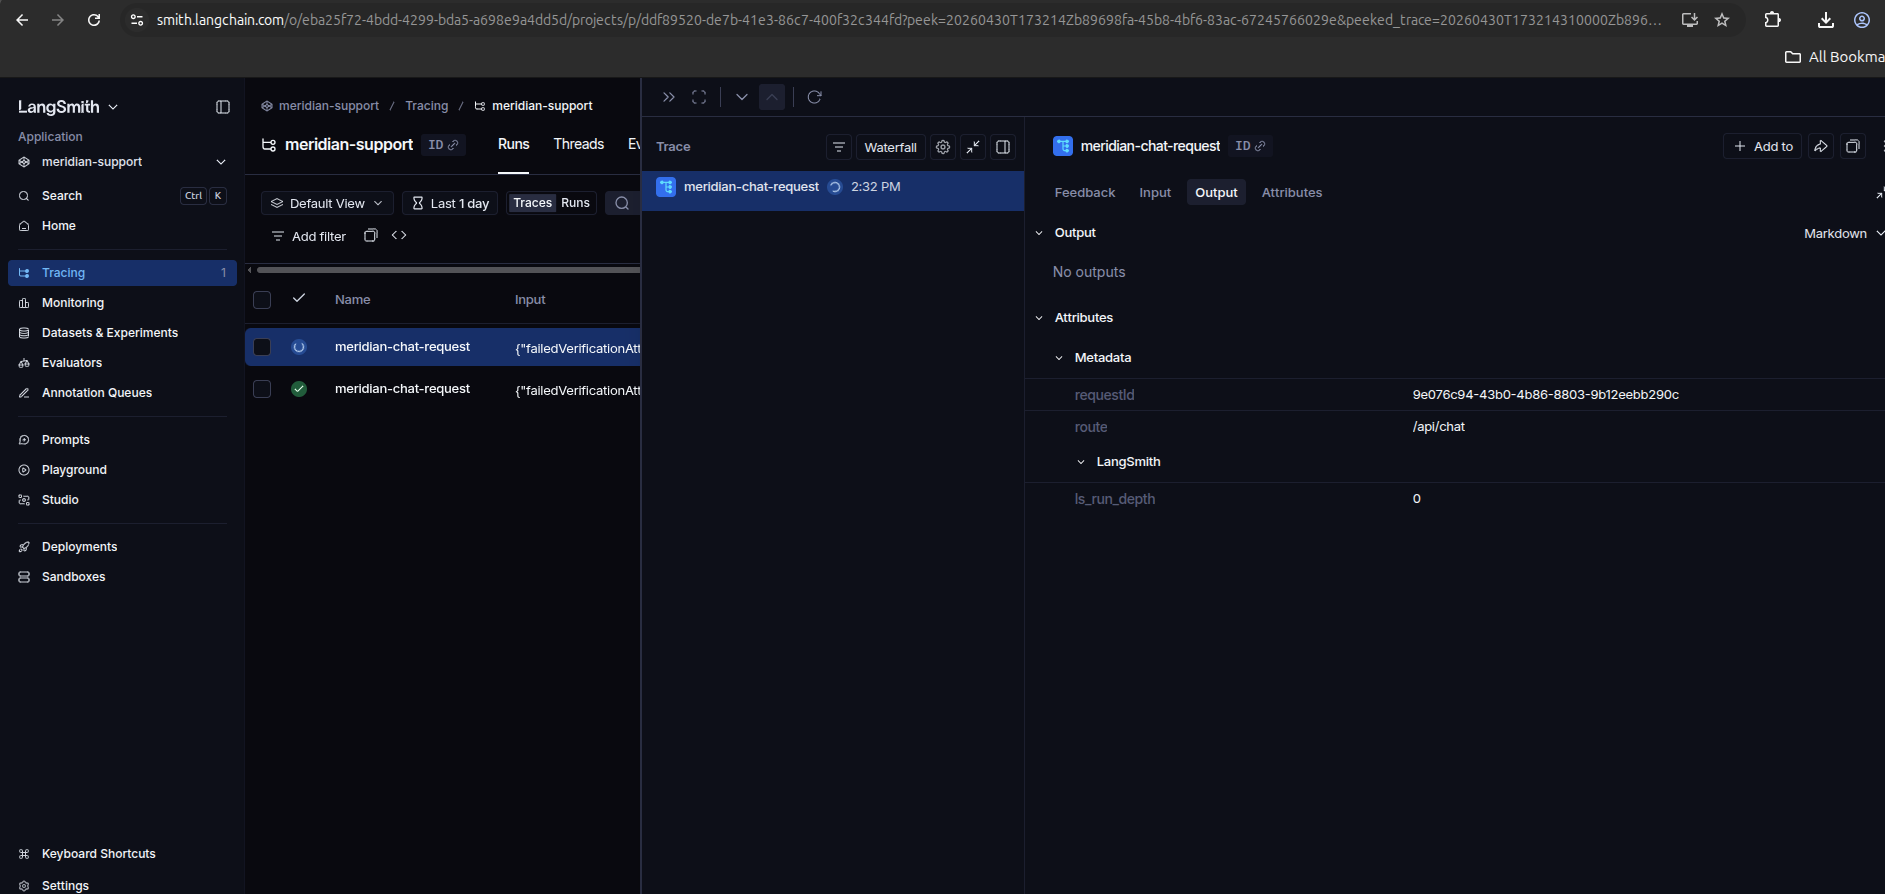
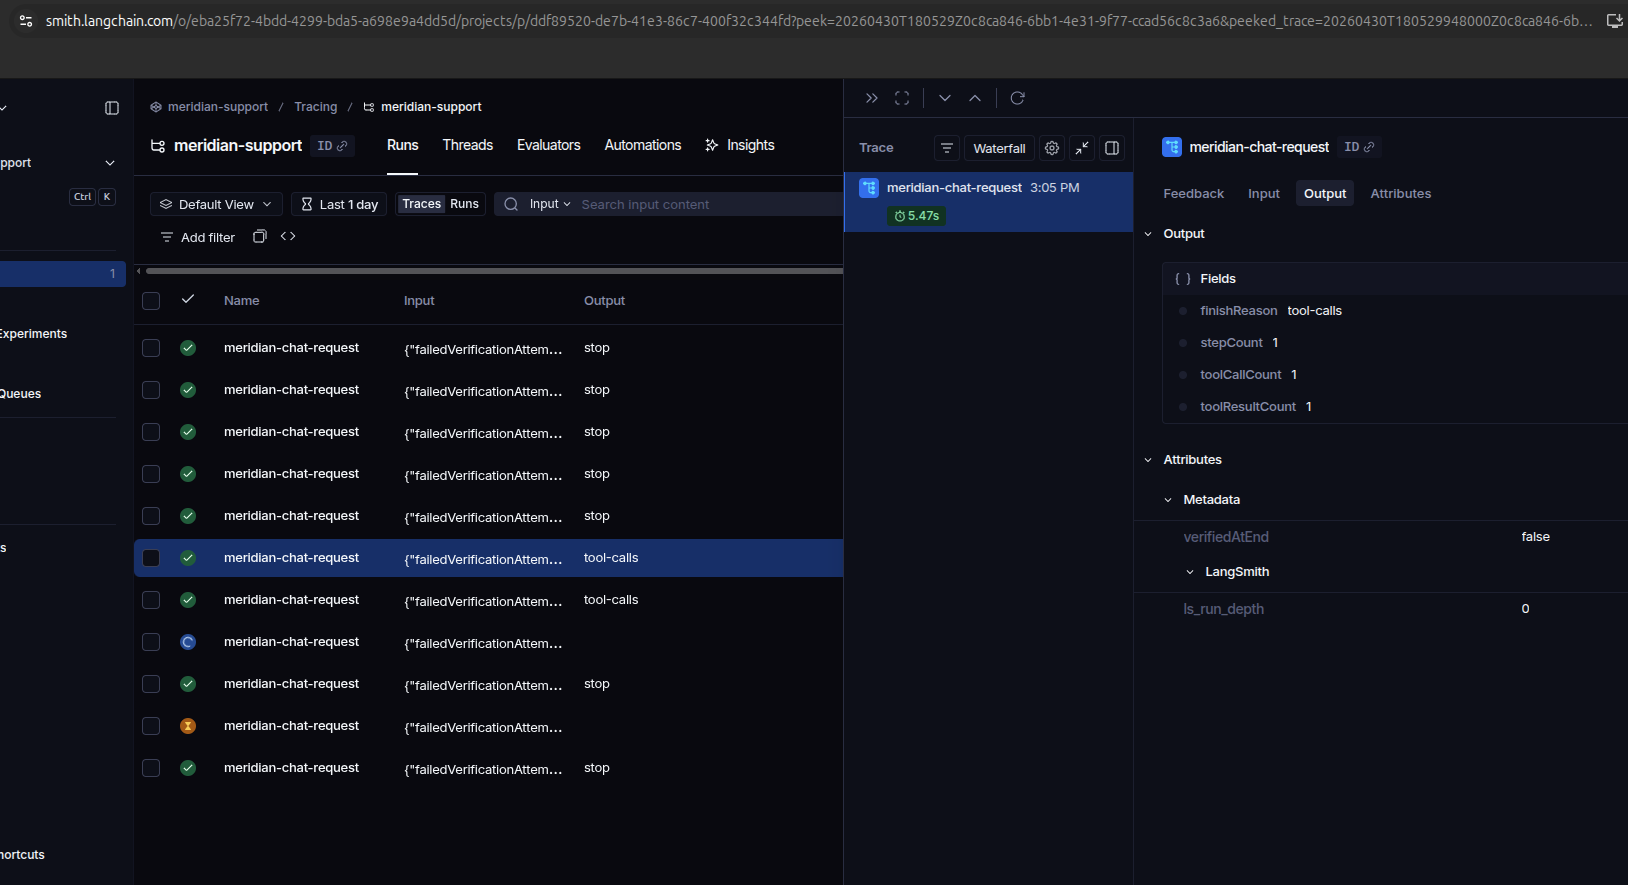
Improve Reamdme a little more

diff --git a/README.md b/README.md
@@ -68,13 +68,25 @@ Deploy as a monorepo subdirectory project so Vercel builds only the Next.js app.
 
 ## Test Vercel deployment
 
-Use the public domain checks after each deployment.
+Run these checks after every production deploy to confirm:
+
+- the custom domain is serving the latest build
+- MCP connectivity is healthy
+- verification smoke tests pass
+- chat streaming still works end-to-end
 
 ```bash
 cd app
 npm run test:smoke:vercel
 npm run test:post-deploy:vercel
 ```
+
+### Troubleshooting (Vercel tests)
+
+- **`404: NOT_FOUND` on domain:** verify Vercel Domain settings and ensure `support.wido.uy` points to the current production deployment.
+- **`app/app` path error in Vercel:** keep Vercel Root Directory set to `app` and run deploy from repo root.
+- **Smoke tests using localhost by mistake:** use `test:post-deploy:vercel` (already pinned to `https://support.wido.uy`) or set `BASE_URL` explicitly.
+- **`/api/chat` fails after tool success:** check provider env vars and redeploy; OpenRouter model path requires valid `OPENROUTER_API_KEY`.
 
 `test:post-deploy:vercel` is pinned to `https://support.wido.uy` and includes:
 
@@ -99,6 +111,19 @@ Security and behavior guardrails are codified in `AGENTS.md` and implemented in 
 
 LangSmith tracing is supported via environment variables and records request-level chain runs, tool activity summaries, and completion metadata.
 
+What you need for reliable observability:
+
+- `LANGSMITH_TRACING=true` to enable tracing
+- a valid `LANGSMITH_API_KEY`
+- a stable `LANGSMITH_PROJECT` name (e.g. `meridian-support`)
+- traffic through `/api/chat` (traces are created per chat request)
+
+How to validate quickly:
+
+1. Send a chat request from UI or API.
+2. Open LangSmith and verify a new run named `meridian-chat-request`.
+3. Confirm metadata includes request/tool lifecycle information.
+
 Recommended variables in `app/.env.local` (and Vercel):
 
 ```bash
@@ -115,6 +140,13 @@ Fallback provider keys are also supported:
 GOOGLE_GENERATIVE_AI_API_KEY=your_google_key
 GOOGLE_API_KEY=your_google_key
 ```
+
+### Troubleshooting (LangSmith)
+
+- **No traces appear:** confirm `LANGSMITH_TRACING=true` and restart/redeploy so env vars are reloaded.
+- **Auth errors in logs:** verify `LANGSMITH_API_KEY` is valid and available in the same environment as `/api/chat`.
+- **Wrong project/run grouping:** set `LANGSMITH_PROJECT=meridian-support` consistently across local and Vercel.
+- **Tracing works locally but not in Vercel:** ensure all LangSmith env vars are set in Vercel Project Settings (Production + Preview as needed).
 
 ## Screenshots
 
